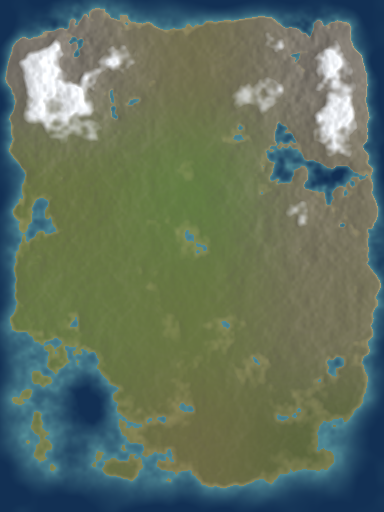
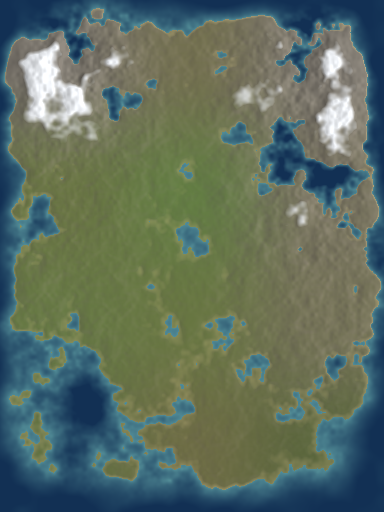
feat: compass HUD, virtual joystick (world-drag orbits camera), taller terrain
Joystick steers camera-relative; drag on the world orbits; taps interact;
pinch/wheel zoom; rotating compass dial; terrain amplitude +40% with
walk limit raised to 19m; map re-rendered.

Claude-Session: https://claude.ai/code/session_01MiZU5TmKTLzXFycSW8hbPv

diff --git a/apps/client/src/controls.ts b/apps/client/src/controls.ts
@@ -4,21 +4,21 @@ import type { Scene } from "@babylonjs/core/scene";
 export interface ControlCallbacks {
   /** short tap at a picked terrain point */
   onTap(x: number, z: number): void;
-  /** continuous steering toward a picked terrain point (throttled upstream) */
-  onSteer(x: number, z: number): void;
+  /** joystick steering: a world-space direction (unit-ish) */
+  onSteerDir(dx: number, dz: number): void;
   onSteerEnd(): void;
 }
 
 const TAP_MS = 300;
 const TAP_SLOP = 14;
-const HOLD_MS = 170;
+const STICK_R = 54;
 
 /**
- * Mobile-MMO controls:
+ * MMO controls:
+ * - on-screen joystick (bottom-left): drag to run, camera-relative
+ * - drag anywhere on the world: orbit the camera
  * - tap: interact / move-to-point
- * - hold or drag one finger: steer continuously toward the finger
- * - two fingers: pinch to zoom, twist/drag horizontally to orbit
- * - desktop: right-drag orbits, wheel zooms
+ * - two fingers: pinch zoom; wheel zooms on desktop
  */
 export function installControls(
   canvas: HTMLCanvasElement,
@@ -26,45 +26,91 @@ export function installControls(
   camera: ArcRotateCamera,
   cb: ControlCallbacks,
 ) {
-  // we own the pointer; the camera keeps nothing
   camera.inputs.removeByType("ArcRotateCameraPointersInput");
   canvas.addEventListener("contextmenu", (e) => e.preventDefault());
 
+  // ---- joystick DOM --------------------------------------------------------
+  const hud = document.getElementById("hud")!;
+  const base = document.createElement("div");
+  base.className = "stick";
+  const knob = document.createElement("div");
+  knob.className = "stick-knob";
+  base.appendChild(knob);
+  hud.appendChild(base);
+
+  let stickPid: number | null = null;
+  let stickVec = { x: 0, y: 0 };
+
+  const setKnob = (x: number, y: number) => {
+    knob.style.transform = `translate(calc(-50% + ${x}px), calc(-50% + ${y}px))`;
+  };
+
+  base.addEventListener("pointerdown", (e) => {
+    e.preventDefault();
+    e.stopPropagation();
+    base.setPointerCapture(e.pointerId);
+    stickPid = e.pointerId;
+    stickVec = { x: 0, y: 0 };
+  });
+  base.addEventListener("pointermove", (e) => {
+    if (e.pointerId !== stickPid) return;
+    const r = base.getBoundingClientRect();
+    let dx = e.clientX - (r.left + r.width / 2);
+    let dy = e.clientY - (r.top + r.height / 2);
+    const len = Math.hypot(dx, dy);
+    if (len > STICK_R) {
+      dx = (dx / len) * STICK_R;
+      dy = (dy / len) * STICK_R;
+    }
+    stickVec = { x: dx, y: dy };
+    setKnob(dx, dy);
+  });
+  const stickEnd = (e: PointerEvent) => {
+    if (e.pointerId !== stickPid) return;
+    stickPid = null;
+    stickVec = { x: 0, y: 0 };
+    setKnob(0, 0);
+    cb.onSteerEnd();
+  };
+  base.addEventListener("pointerup", stickEnd);
+  base.addEventListener("pointercancel", stickEnd);
+
+  // per-frame: convert the stick vector to a camera-relative world direction
+  scene.onBeforeRenderObservable.add(() => {
+    if (stickPid === null) return;
+    const mag = Math.hypot(stickVec.x, stickVec.y) / STICK_R;
+    if (mag < 0.15) return;
+    const fwd = camera.getTarget().subtract(camera.position);
+    const f = normXZ(fwd.x, fwd.z);
+    const right = { x: f.z, z: -f.x };
+    const dx = f.x * -stickVec.y + right.x * stickVec.x;
+    const dz = f.z * -stickVec.y + right.z * stickVec.x;
+    const d = normXZ(dx, dz);
+    cb.onSteerDir(d.x, d.z);
+  });
+
+  // ---- world drags orbit, taps interact ------------------------------------
   interface P {
     x: number;
     y: number;
   }
   const pointers = new Map<number, P>();
-  let steerPid: number | null = null;
+  let orbitPid: number | null = null;
   let downAt = 0;
   let downPos: P = { x: 0, y: 0 };
-  let steering = false;
-  let orbiting = false; // desktop right-drag
-  let lastTwo: { dist: number; midX: number } | null = null;
-
-  const pickGround = (sx: number, sy: number) => {
-    const pick = scene.pick(sx, sy, (m) => m.name.startsWith("terrain:"));
-    return pick?.pickedPoint ?? null;
-  };
+  let dragging = false;
+  let lastPinch: number | null = null;
 
   canvas.addEventListener("pointerdown", (e) => {
     canvas.setPointerCapture(e.pointerId);
     pointers.set(e.pointerId, { x: e.clientX, y: e.clientY });
-    if (e.button === 2) {
-      orbiting = true;
-      return;
-    }
     if (pointers.size === 1) {
-      steerPid = e.pointerId;
+      orbitPid = e.pointerId;
       downAt = performance.now();
       downPos = { x: e.clientX, y: e.clientY };
-      steering = false;
+      dragging = false;
     } else {
-      // a second finger cancels steering and starts pinch/orbit
-      steerPid = null;
-      steering = false;
-      cb.onSteerEnd();
-      lastTwo = null;
+      lastPinch = null;
     }
   });
 
@@ -72,51 +118,48 @@ export function installControls(
     const prev = pointers.get(e.pointerId);
     if (!prev) return;
     const dx = e.clientX - prev.x;
+    const dy = e.clientY - prev.y;
     pointers.set(e.pointerId, { x: e.clientX, y: e.clientY });
-
-    if (orbiting) {
-      camera.alpha -= dx * 0.008;
-      camera.beta = Math.min(camera.upperBetaLimit!, Math.max(camera.lowerBetaLimit!, camera.beta - (e.movementY || 0) * 0.005));
-      return;
-    }
 
     if (pointers.size >= 2) {
       const [a, b] = [...pointers.values()];
       const dist = Math.hypot(a!.x - b!.x, a!.y - b!.y);
-      const midX = (a!.x + b!.x) / 2;
-      if (lastTwo) {
+      if (lastPinch) {
         camera.radius = Math.min(
           camera.upperRadiusLimit ?? 38,
-          Math.max(camera.lowerRadiusLimit ?? 7, camera.radius * (lastTwo.dist / Math.max(1, dist))),
+          Math.max(camera.lowerRadiusLimit ?? 7, camera.radius * (lastPinch / Math.max(1, dist))),
         );
-        camera.alpha -= (midX - lastTwo.midX) * 0.006;
       }
-      lastTwo = { dist, midX };
+      lastPinch = dist;
       return;
     }
 
-    if (e.pointerId === steerPid && !steering) {
-      const moved = Math.hypot(e.clientX - downPos.x, e.clientY - downPos.y);
-      if (moved > TAP_SLOP || performance.now() - downAt > HOLD_MS) steering = true;
+    if (e.pointerId !== orbitPid) return;
+    if (!dragging && Math.hypot(e.clientX - downPos.x, e.clientY - downPos.y) > TAP_SLOP) {
+      dragging = true;
+    }
+    if (dragging) {
+      camera.alpha -= dx * 0.006;
+      camera.beta = Math.min(
+        camera.upperBetaLimit ?? 1.38,
+        Math.max(camera.lowerBetaLimit ?? 0.45, camera.beta - dy * 0.005),
+      );
     }
   });
 
   const endPointer = (e: PointerEvent) => {
-    const wasSteer = e.pointerId === steerPid;
+    const wasOrbit = e.pointerId === orbitPid;
     pointers.delete(e.pointerId);
-    if (e.button === 2 || pointers.size === 0) orbiting = false;
-    if (pointers.size < 2) lastTwo = null;
-    if (!wasSteer) return;
-    steerPid = null;
+    if (pointers.size < 2) lastPinch = null;
+    if (!wasOrbit) return;
+    orbitPid = null;
     const dt = performance.now() - downAt;
     const moved = Math.hypot(e.clientX - downPos.x, e.clientY - downPos.y);
-    if (steering) {
-      steering = false;
-      cb.onSteerEnd();
-    } else if (dt <= TAP_MS && moved <= TAP_SLOP) {
-      const p = pickGround(e.clientX, e.clientY);
-      if (p) cb.onTap(p.x, p.z);
+    if (!dragging && dt <= TAP_MS && moved <= TAP_SLOP) {
+      const pick = scene.pick(e.clientX, e.clientY, (m) => m.name.startsWith("terrain:"));
+      if (pick?.pickedPoint) cb.onTap(pick.pickedPoint.x, pick.pickedPoint.z);
     }
+    dragging = false;
   };
   canvas.addEventListener("pointerup", endPointer);
   canvas.addEventListener("pointercancel", endPointer);
@@ -133,12 +176,21 @@ export function installControls(
     { passive: false },
   );
 
-  // per-frame steering: aim at the terrain under the held finger
+  // ---- compass -------------------------------------------------------------
+  const compass = document.createElement("div");
+  compass.className = "compass";
+  compass.innerHTML =
+    '<div class="dial"><span class="n">N</span><span class="e">E</span><span class="s">S</span><span class="w">W</span></div><div class="needle">▲</div>';
+  hud.appendChild(compass);
+  const dial = compass.querySelector(".dial") as HTMLDivElement;
   scene.onBeforeRenderObservable.add(() => {
-    if (!steering || steerPid === null) return;
-    const p = pointers.get(steerPid);
-    if (!p) return;
-    const point = pickGround(p.x, p.y);
-    if (point) cb.onSteer(point.x, point.z);
+    const fwd = camera.getTarget().subtract(camera.position);
+    const bearing = Math.atan2(fwd.x, fwd.z); // 0 = facing north (+z)
+    dial.style.transform = `rotate(${(bearing * 180) / Math.PI}deg)`;
   });
+}
+
+function normXZ(x: number, z: number): { x: number; z: number } {
+  const l = Math.hypot(x, z) || 1;
+  return { x: x / l, z: z / l };
 }

diff --git a/apps/client/src/style.css b/apps/client/src/style.css
@@ -644,3 +644,67 @@ body {
   font-size: 12.5px;
 }
 .recipe button:disabled { opacity: 0.4; }
+
+/* ---- joystick + compass ---- */
+.stick {
+  position: absolute;
+  left: calc(env(safe-area-inset-left, 0px) + 22px);
+  bottom: calc(env(safe-area-inset-bottom, 0px) + 86px);
+  width: 112px;
+  height: 112px;
+  border-radius: 50%;
+  border: 2px solid rgba(232, 195, 58, 0.35);
+  background: rgba(20, 16, 12, 0.35);
+  backdrop-filter: blur(2px);
+  pointer-events: auto;
+  touch-action: none;
+  z-index: 5;
+}
+.stick-knob {
+  position: absolute;
+  left: 50%;
+  top: 50%;
+  width: 46px;
+  height: 46px;
+  border-radius: 50%;
+  background: rgba(232, 195, 58, 0.55);
+  border: 2px solid rgba(255, 224, 138, 0.8);
+  transform: translate(-50%, -50%);
+  pointer-events: none;
+}
+.compass {
+  position: absolute;
+  top: calc(env(safe-area-inset-top, 0px) + 8px);
+  left: 50%;
+  transform: translateX(-50%);
+  width: 64px;
+  height: 64px;
+  pointer-events: none;
+}
+.compass .dial {
+  position: absolute;
+  inset: 0;
+  border-radius: 50%;
+  border: 2px solid rgba(232, 195, 58, 0.5);
+  background: rgba(20, 16, 12, 0.55);
+  backdrop-filter: blur(3px);
+}
+.compass .dial span {
+  position: absolute;
+  font-size: 12px;
+  font-weight: 800;
+  color: #c9bda7;
+}
+.compass .dial .n { top: 3px; left: 50%; transform: translateX(-50%); color: #ff6b5a; }
+.compass .dial .s { bottom: 3px; left: 50%; transform: translateX(-50%); }
+.compass .dial .e { right: 5px; top: 50%; transform: translateY(-50%); }
+.compass .dial .w { left: 5px; top: 50%; transform: translateY(-50%); }
+.compass .needle {
+  position: absolute;
+  top: -3px;
+  left: 50%;
+  transform: translateX(-50%);
+  color: #ffe08a;
+  font-size: 11px;
+  text-shadow: 0 1px 2px #000;
+}

diff --git a/apps/client/src/main.ts b/apps/client/src/main.ts
@@ -147,16 +147,12 @@ async function start(auth: AuthResult | null) {
   // controls: tap interacts, hold/drag steers, two fingers orbit/zoom
   let lastSteerSent = 0;
   installControls(canvas, world.scene, world.camera, {
-    onSteer(px, pz) {
+    onSteerDir(dx, dz) {
       const self = renderer.getSelfPosition();
       if (!self) return;
-      const dx = px - self.x;
-      const dz = pz - self.z;
-      const dist = Math.hypot(dx, dz);
-      if (dist < 0.4) return;
       let target: { x: number; z: number } | null = null;
-      for (const reach of [Math.min(8, dist), 4, 2]) {
-        const t = { x: self.x + (dx / dist) * reach, z: self.z + (dz / dist) * reach };
+      for (const reach of [7, 4, 2]) {
+        const t = { x: self.x + dx * reach, z: self.z + dz * reach };
         const sp = (net.room.state as { players?: Map<string, { boat: boolean }> }).players?.get(net.sessionId);
         const ok = sp?.boat ? true : activeMap().isWalkable(t.x, t.z);
         if (ok) {

diff --git a/packages/content/src/world.ts b/packages/content/src/world.ts
@@ -12,7 +12,7 @@ export const CELL = 512;
 export const WORLD_W = 3 * CELL; // 1536
 export const WORLD_H = 4 * CELL; // 2048
 export const WATER_LEVEL = 1.2;
-export const MAX_WALK_HEIGHT = 15;
+export const MAX_WALK_HEIGHT = 19;
 export const SPAWN = { x: 768, z: 768 }; // Hearthmere square
 export const TOWN_RADIUS = 56;
 
@@ -136,8 +136,8 @@ export function oceanMask(x: number, z: number): number {
 
 export function heightAt(x: number, z: number): number {
   const { lift, amp } = blendedRegion(x, z);
-  let h = 2.6 + lift + amp * (fbm(x, z, 150, 4, WORLD_SEED) - 0.5) * 14;
-  h += amp * (fbm(x, z, 31, 2, WORLD_SEED + 7) - 0.5) * 2.2;
+  let h = 2.6 + lift + amp * (fbm(x, z, 150, 4, WORLD_SEED) - 0.5) * 19;
+  h += amp * (fbm(x, z, 31, 2, WORLD_SEED + 7) - 0.5) * 3.0;
 
   // Greywater: carve the lake
   const lx = x - 360;

diff --git a/packages/content/scripts/render-map.ts b/packages/content/scripts/render-map.ts
@@ -29,8 +29,8 @@ function pixel(x: number, z: number): [number, number, number] {
   const sandW = Math.min(1, Math.max(0, (WATER_LEVEL + 1.2 - h) / 2.0)) * (0.45 + 0.55 * oceanMask(x, z));
   let col = [0, 1, 2].map((i) => GRASS[i]! * g + DIRT[i]! * d + ROCK[i]! * r + MARSH[i]! * m);
   col = col.map((c, i) => c * (1 - sandW) + SAND[i]! * sandW);
-  if (h > 13) {
-    const t = Math.min(1, (h - 13) / 6);
+  if (h > 15) {
+    const t = Math.min(1, (h - 15) / 7);
     col = col.map((c, i) => c * (1 - t) + SNOW[i]! * t);
   }
   // hillshade from the west
